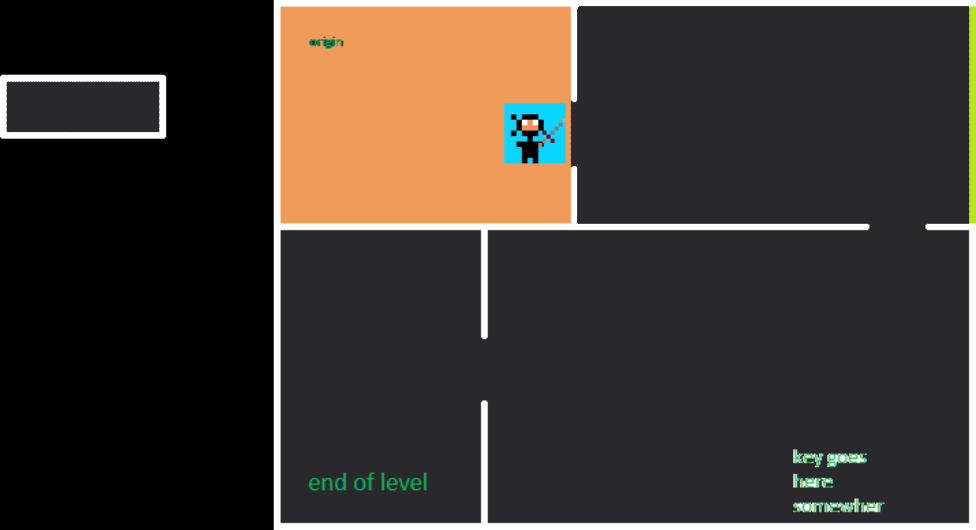
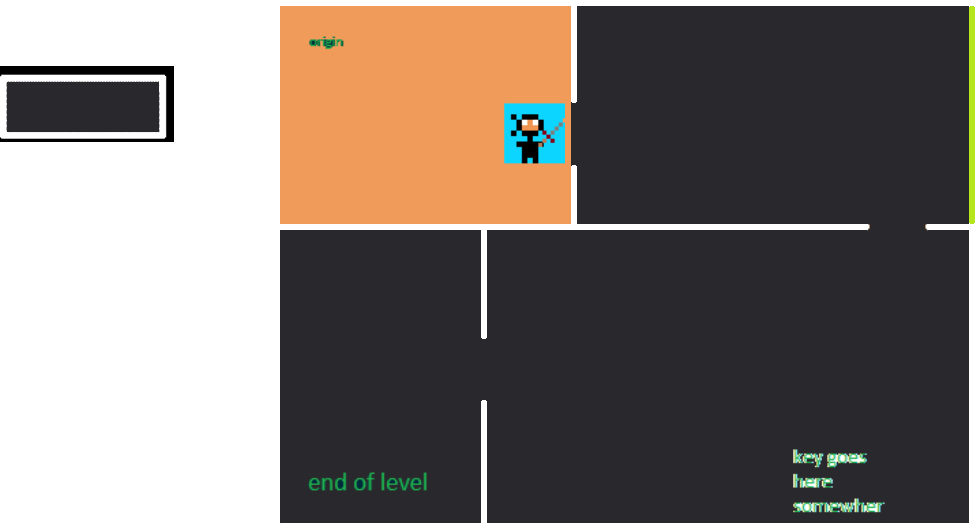
stuff

diff --git a/src/task/game/tiles.c b/src/task/game/tiles.c
@@ -1,0 +1,51 @@
+#include "game_mgr.h"
+
+static int handle_spawn(game_task *self);
+static void handle_tick(game_task *self);
+static inline int clamp_coord(int coord, int area);
+
+game_task *tiled_img(float x, float y, char* texture_path) {
+	game_task *self = new_game_task();
+	if (self == NULL) return NULL;
+	self->on_spawn = handle_spawn;
+	self->on_tick = handle_tick;
+
+	if (game_load_sprite(self, texture_path)) return NULL;
+	self->sprite->x = x;
+	self->sprite->y = y;
+
+	return self;
+}
+
+static int handle_spawn(game_task *self) {
+	game_scale_sprite(self->sprite, 1);
+	return 0;
+}
+
+static void handle_tick(game_task *self) {
+	int win_w, win_h;
+	if (!SDL_GetWindowSize(self->game->window, &win_w, &win_h)) return;
+
+	game_sprite *sprite = self->sprite;
+	game_camera *cam = &self->game->camera;
+	SDL_Texture *texture = sprite->texture;
+	SDL_FRect rect;
+	rect.w = sprite->w;
+	rect.h = sprite->h;
+
+	for (float y = -clamp_coord(cam->y, rect.h); ; y += rect.h) {
+		for (float x = -clamp_coord(cam->x, rect.w); ; x += rect.w) {
+			rect.x = x;
+			rect.y = y;
+			SDL_RenderTexture(self->game->renderer, texture, NULL, &rect);
+			if (x >= win_w) break;
+		}
+		if (y >= win_h) break;
+	}
+}
+
+static inline int clamp_coord(int coord, int area) {
+	coord = coord % area;
+	if (coord < 0) coord = area + coord;
+	return coord;
+}

diff --git a/src/task/game/level/level_1.c b/src/task/game/level/level_1.c
@@ -3,6 +3,7 @@
 #include "../enemy.h"
 #include "../sign.h"
 #include "../literal.h"
+#include "../tiles.h"
 
 static int handle_spawn(game_task *self);
 
@@ -16,6 +17,7 @@ game_task *new_level_1() {
 
 static int handle_spawn(game_task *self) {
 	/* updating the current level is now carried out by game_mgr.c */
+	if (game_spawn(self, tiled_img(0, 0, "res/game/sky.png"))) return -1;
 	if (game_spawn(self, literal_img(0, 0, "res/levels/level_1.png"))) return -1;
 	if (game_spawn(self, player())) return -1;
 	if (game_spawn(self, enemy())) return -1;

diff --git a/src/core/game.c b/src/core/game.c
@@ -44,8 +44,9 @@ int game_spawn(game_task *parent, game_task *task) {
 	/* resolve staged textures */
 	if (task->sprite != NULL && task->sprite->texture != NULL) {
 		char *filepath = (void *)task->sprite->texture;
+		printf("filepath: %s, ptr: %p\n", filepath, filepath);
 		int result = game_load_texture(task, filepath);
-		printf("%s %d\n", filepath, result);
+		printf("%p %d\n", task->sprite->texture, result);
 		free(filepath);
 		if (result) return -126;
 	}

diff --git a/src/task/game/enemy.c b/src/task/game/enemy.c
@@ -40,7 +40,7 @@ static int handle_spawn(game_task *self) {
 	if (self->sprite == NULL) return -1;
 	self->sprite->texture = IMG_LoadTexture(self->game->renderer, "res/game/enemy_a.png");
 	if (self->sprite->texture == NULL) return -1;
-	game_scale_sprite(self->sprite, 1);
+	game_scale_sprite(self->sprite, 4);
 
 	game_adapter *adapter = calloc(sizeof(game_adapter), 1);
 	if (adapter == NULL) return -1;

diff --git a/src/task/game/game_mgr.c b/src/task/game/game_mgr.c
@@ -41,8 +41,6 @@ static int handle_spawn(game_task *self) {
 }
 
 static void handle_tick(game_task *self) {
-	SDL_SetRenderDrawColor(self->game->renderer, 12, 214, 255, 255);
-	SDL_RenderClear(self->game->renderer);
 }
 
 static void handle_event(game_task *self) {

diff --git a/src/task/game/literal.c b/src/task/game/literal.c
@@ -17,6 +17,7 @@ game_task *literal_img(float x, float y, char* texture_path) {
 }
 
 static int handle_spawn(game_task *self) {
+	game_scale_sprite(self->sprite, 1);
 	return 0;
 }
 

diff --git a/src/task/game/tiles.h b/src/task/game/tiles.h
@@ -1,0 +1,2 @@
+#include "../../core/game.h"
+game_task *tiled_img(float x, float y, char *texture_path);
